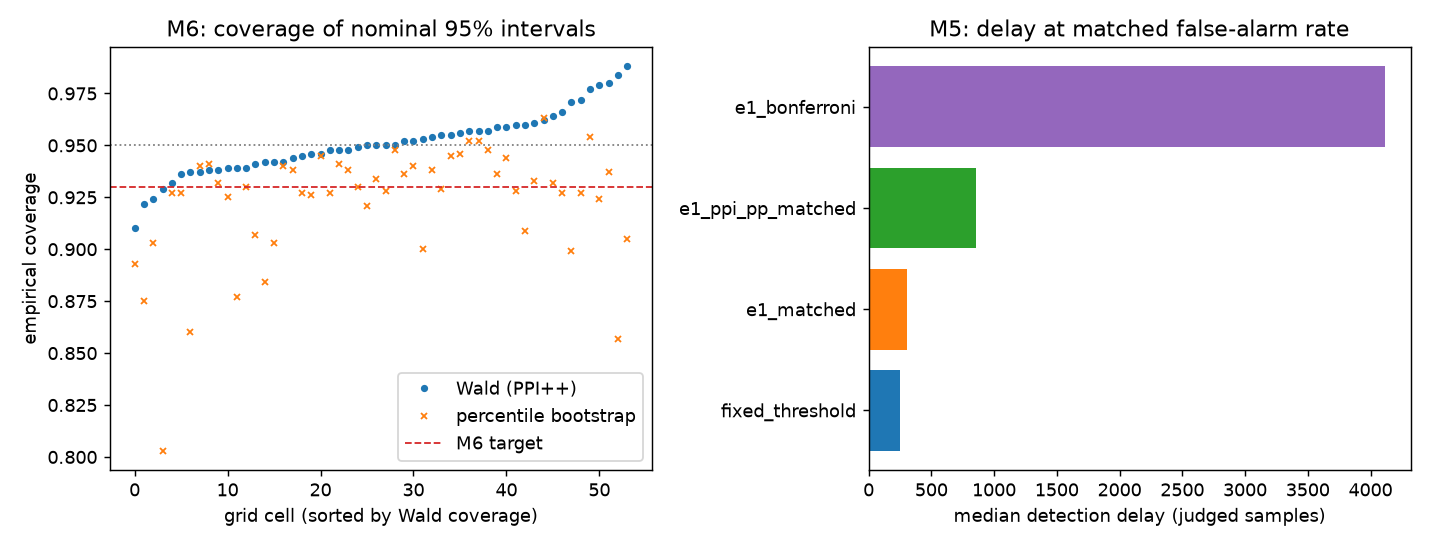
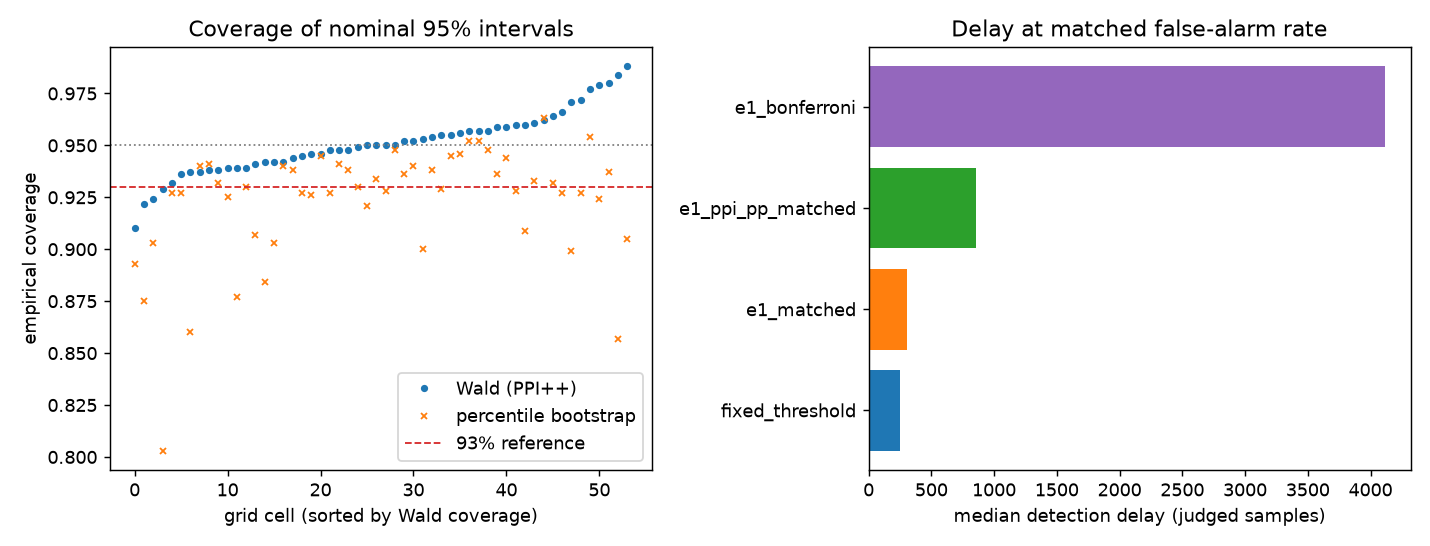
Regenerate the router, evidence and judge reports with the new wording

Changed region(s): [[0.1231, 0.0311, 0.4308, 0.0934], [0.6462, 0.0311, 0.9538, 0.0934], [0.3077, 0.7784, 0.4, 0.8407]]

diff --git a/evals/evidence/report.md b/evals/evidence/report.md
@@ -2,9 +2,9 @@
 
 Generated by `make eval-evidence` (`python -m evals.evidence.evaluate`). Simulated: the numbers measure the statistics and the machinery, on the simulator's model of quality and judge error, not real traffic.
 
-## M6: interval coverage (target >= 93%)
+## Interval coverage
 
-1000 datasets per cell; 54 cells (human labels x judge-only pairs x true w x judge). Worst cell: Wald 0.910, bootstrap 0.803. Cells below target: Wald 4, bootstrap 27. Interval used by the cards: **wald**; M6 **not met**.
+1000 datasets per cell; 54 cells (human labels x judge-only pairs x true w x judge). Worst cell: Wald 0.910, bootstrap 0.803. Cells below 93%: Wald 4, bootstrap 27. Interval used by the cards: **wald**.
 
 With 1,000 runs a coverage estimate has a Monte Carlo standard error of about 0.008, so cells within ~0.01 of 0.93 are not clearly below it.
 
@@ -65,7 +65,7 @@ With 1,000 runs a coverage estimate has a Monte Carlo standard error of about 0.
 | 250 | 2000 | 0.95 | mediocre | 0.932 | 0.927 ⚠ | 0.051 | 0.049 |
 | 250 | 2000 | 0.95 | loss_blind | 0.938 | 0.932 | 0.050 | 0.048 |
 
-## M5: detection delay at a matched false-alarm rate
+## Detection delay at a matched false-alarm rate
 
 w drops 0.95 -> 0.85 (floor 0.9); 1000 null and 1000 change streams; false alarms over 5000 judged samples, target <= 5%. Delay in judged samples after the change.
 
@@ -78,7 +78,7 @@ w drops 0.95 -> 0.85 (floor 0.9); 1000 null and 1000 change streams; false alarm
 | e1_ppi_pp_matched | block 250, z -0.95, lambda tuned (PPI++) | 0.045 | 852 | 325-4317 | 64.4% |
 | e1_ppi_pp_bonferroni | block 250, z 2.807, lambda tuned (PPI++) | 0.000 | 4530 | 4264-4768 | 0.2% |
 
-Faster at matched false alarms: **fixed_threshold**; M5 (E1 faster than the fixed threshold) **not met**.
+Faster at matched false alarms: **fixed_threshold**.
 
 Why `lambda = 1` for E1: PPI++ tunes lambda on human labels from *before* the change; with few losses at w = 0.95 it is about 0.3, so the estimate leans on the stale human mean (`e1_ppi_pp_*` rows). The pre-registered Bonferroni E1 (`e1_bonferroni`) is valid by construction but, with 20 looks at alpha/20, slow: that is the price E2 (anytime-valid sequences, future scope) would remove.
 
@@ -95,14 +95,14 @@ Why `lambda = 1` for E1: PPI++ tunes lambda on human labels from *before* the ch
 
 `drifted`: the judge was calibrated (good) when the human labels were collected, then became loss-blind. The rectifier is stale, and PPI's protection shrinks: the reason cards go `stale`, and fresh labels are needed after any change.
 
-## M8: evidence cost share (target <= 10%)
+## Evidence cost share
 
 | sample rate | requests | shadow pairs | routed list cost | evidence list cost | share |
 |---|---|---|---|---|---|
 | 0.05 | 1000 | 22 | $0.1728 | $0.0065 | 3.76% |
 | 0.01 | 1000 | 5 | $0.1728 | $0.0015 | 0.86% |
 
-Traffic mix: 37% cheap (the simulated router's share); judge mock/cheap. M8 **met**.
+Traffic mix: 37% cheap (the simulated router's share); judge mock/cheap.
 
 ### The same traffic with the calibrated judge (Claude Sonnet 5.5)
 
@@ -113,7 +113,7 @@ The judge Relay calibrated is Sonnet on rubric v2 (`evals/judge/public`), not th
 | 0.05 | 1000 | 22 | $0.1728 | $0.0401 | 23.19% |
 | 0.01 | 1000 | 5 | $0.1728 | $0.0091 | 5.27% |
 
-With the Sonnet judge M8 is **not met** at the default 5% sampling and holds only at a lower rate; `shadow_budget_usd_per_day` caps the spend in absolute terms either way.
+With the Sonnet judge the share is 23.2% at the default 5% sampling and 5.3% at 1%; `shadow_budget_usd_per_day` caps the spend in absolute terms either way.
 
 ## Canary: automatic rollback on an unsafe card
 

diff --git a/evals/router/sim/report.md b/evals/router/sim/report.md
@@ -1,14 +1,14 @@
 # Router evaluation: sim world
 
-**Simulated world.** Difficulty was built into the prompts (ADR 0018), so this measures the *machinery* (training, thresholding, bootstrap, PPI, the CI gate), not real-world savings.
+**Simulated world.** Difficulty was built into the prompts, so this measures the *machinery* (training, thresholding, bootstrap, PPI, the CI gate), not real-world savings.
 
 Router `router-sim-v1` (embedding `BAAI/bge-small-en-v1.5`). Test split: 631 prompts, 150 of them gold-labeled.
 
-## Headline (M4: lower 95% bound of policy quality >= 0.95, share to cheap >= 40%)
+## Headline (quality floor: lower 95% bound of policy quality >= 0.95)
 
 - Threshold, chosen on **validation** only: **0.82** 
-- On **test**, **37.2%** of requests go to the cheap model (target 40%: NOT met).
-- Quality vs ground truth: **0.9857**, one-sided 95% lower bound **0.9778** (floor 0.95: met).
+- On **test**, **37.2%** of requests go to the cheap model.
+- Quality vs ground truth: **0.9857**, one-sided 95% lower bound **0.9778** (floor 0.95: above).
 - Judge-only estimate (biased by the judge's errors): 0.9699.
 - **PPI-corrected** estimate: 0.9799, one-sided 95% lower bound 0.9630; the 150 gold labels are worth about 1.2x as many human labels (lambda 0.51).
 - List-price cost saved vs always-strong: 33.5% (illustrative: 100 prompt + 300 completion tokens per request, list prices from relay.yaml).

diff --git a/evals/router/real/report.md b/evals/router/real/report.md
@@ -1,14 +1,14 @@
 # Router evaluation: real world
 
-**Real data, uncalibrated judge.** Labels come from an LLM judge that has not passed the M7 gate (no human labels yet), the set is small, so treat every interval as wide and nothing here may drive a decision.
+**Real data, uncalibrated judge.** Labels come from an LLM judge that has not been calibrated against human labels yet, the set is small, so treat every interval as wide and nothing here may drive a decision.
 
 Router `router-real-v1` (embedding `BAAI/bge-small-en-v1.5`). Test split: 27 prompts, 0 of them gold-labeled.
 
-## Headline (M4: lower 95% bound of policy quality >= 0.95, share to cheap >= 40%)
+## Headline (quality floor: lower 95% bound of policy quality >= 0.95)
 
 - Threshold, chosen on **validation** only: **0.76** 
-- On **test**, **3.7%** of requests go to the cheap model (target 40%: NOT met).
-- Quality vs judge only: **1.0000**, one-sided 95% lower bound **1.0000** (floor 0.95: met).
+- On **test**, **3.7%** of requests go to the cheap model.
+- Quality vs judge only: **1.0000**, one-sided 95% lower bound **1.0000** (floor 0.95: above).
 - Judge-only estimate (biased by the judge's errors): 1.0000.
 - List-price cost saved vs always-strong: 1.9% (illustrative: 100 prompt + 300 completion tokens per request, list prices from relay.yaml).
 

diff --git a/evals/judge/public/report.md b/evals/judge/public/report.md
@@ -2,7 +2,7 @@
 
 Calibrated on public data (2023-era models and author-built adversarial pairs), not on Relay's own traffic. MT-Bench votes are preferences, while the rubric asks whether one answer is materially worse.
 
-Pairs: 840 (0 not judged). Gate (M7): kappa >= 0.6 and loss recall >= 0.7 on >= 50 pairs.
+Pairs: 840 (0 not judged). Calibration gate: kappa >= 0.6 and loss recall >= 0.7 on >= 50 pairs.
 
 | judge | rubric | data | n | kappa [95% CI] | loss recall [95% CI] | accuracy | status |
 |---|---|---|---|---|---|---|---|
